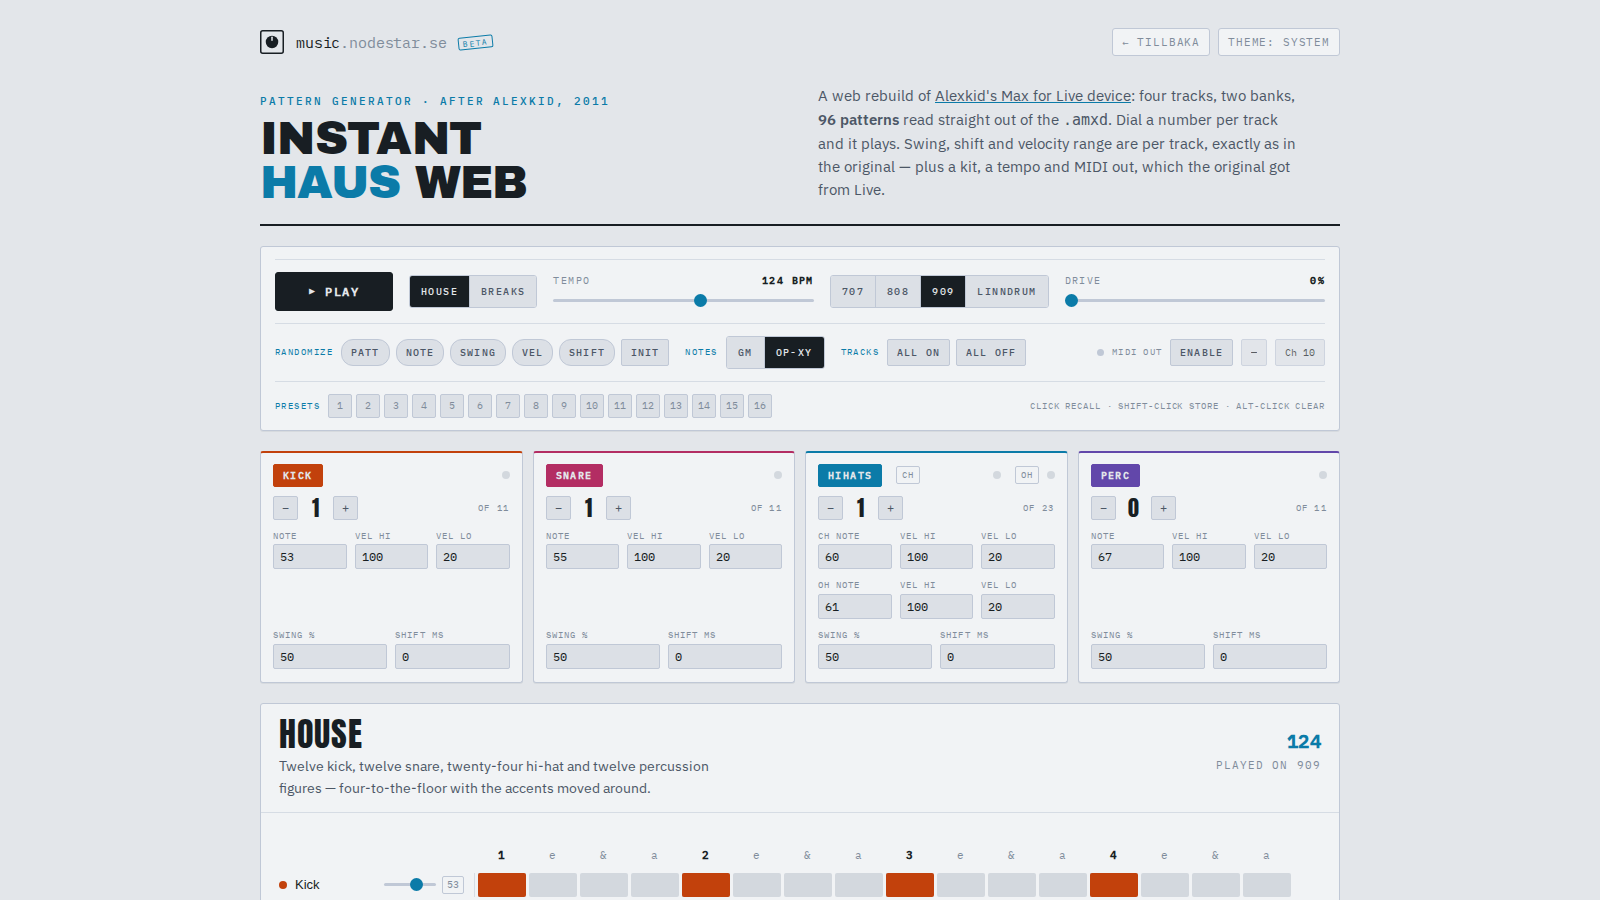
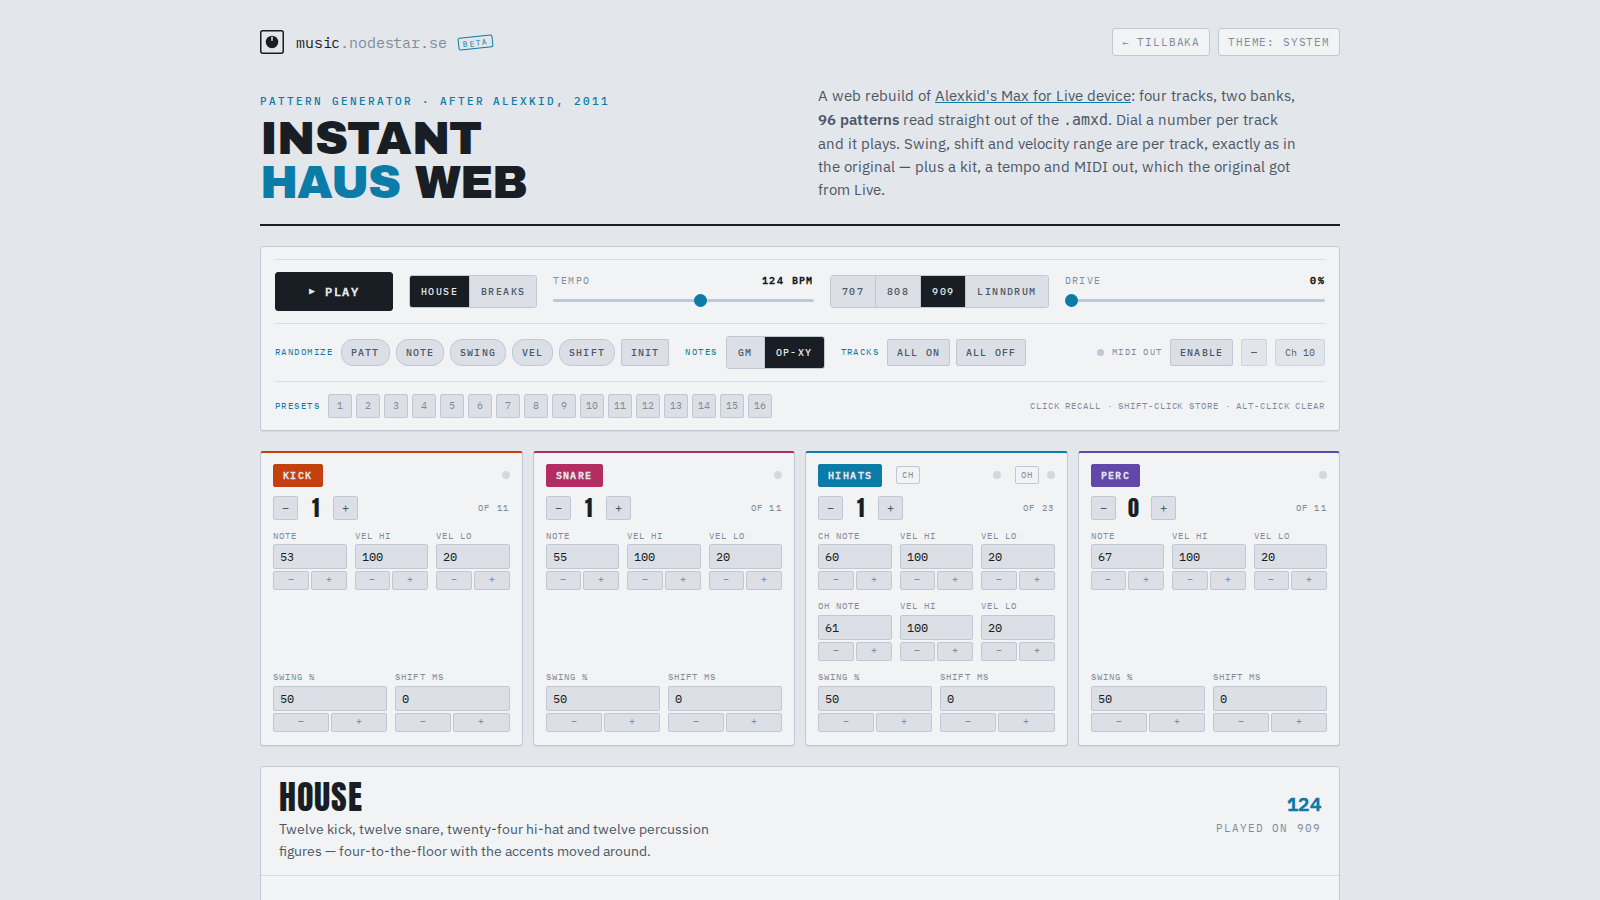
Instant Haus Web: step buttons under every numeric field
A minus/plus pair under Note, Vel Hi, Vel Lo, Swing and Shift on all four
modules. One step per click, ten with shift, and hold to repeat — without the
repeat they would be useless on exactly the fields that need them most, since
a velocity has 128 steps. Typing still works for long jumps, and the pattern
dial keeps the steppers it already had.

They sit under the field rather than beside it: at three columns the cell is
about 52 px, so flanking buttons would leave the number itself around 24.

Claude-Session: https://claude.ai/code/session_019Ww1Cx3jD6txbHoobQzUCk

Changed region(s): [[0.1562, 0.6222, 0.8438, 1.0], [0.75, 0.9022, 0.8125, 0.9333], [0.8125, 0.8711, 0.8438, 0.9022]]

diff --git a/static/demos/instant-haus-web/index.html b/static/demos/instant-haus-web/index.html
@@ -523,6 +523,18 @@ h1{font-size:clamp(28px,4.8vw,46px)}
   font-family:"IBM Plex Mono",monospace;font-size:9px;letter-spacing:.1em;text-transform:uppercase;
   color:var(--ink-3);margin-left:auto;
 }
+
+/* ---------- field steppers ---------- */
+.fldwrap{display:flex;flex-direction:column;gap:2px;min-width:0}
+.spin{display:grid;grid-template-columns:1fr 1fr;gap:2px}
+.spin button{
+  appearance:none;cursor:pointer;border:1px solid var(--line);background:var(--panel-2);
+  color:var(--ink-3);font-family:"IBM Plex Mono",monospace;font-size:10px;line-height:1;
+  padding:3px 0 4px;border-radius:2px;touch-action:none;user-select:none;
+}
+.spin button:hover{border-color:var(--acc);color:var(--ink)}
+.spin button:active{background:var(--acc);border-color:var(--acc);color:var(--on-acc)}
+.spin button:focus-visible{outline:2px solid var(--acc);outline-offset:1px}
 @media (max-width:980px){ .tracks{grid-template-columns:repeat(2,minmax(0,1fr))} }
 @media (max-width:560px){ .tracks{grid-template-columns:1fr} }
 </style>
@@ -986,7 +998,46 @@ function numField(label, min, max, val, cb, key, isNote){
   });
   w.appendChild(s); w.appendChild(i);
   els["in_"+key] = i;
-  return w;
+
+  /* Typing is fine for a jump; these are for nudging. Hold to repeat, since
+     a velocity has 128 steps and nobody should click that many times. */
+  function apply(d){
+    var cur = Math.round(+i.value); if(isNaN(cur)) cur = min;
+    var n = Math.max(min, Math.min(max, cur + d));
+    if(n === cur) return;
+    i.value = n; cb(n);
+  }
+  function stepper(txt, dir){
+    var b = document.createElement("button");
+    b.type = "button"; b.textContent = txt;
+    b.setAttribute("aria-label", (dir < 0 ? "Decrease " : "Increase ") + label);
+    b.title = label + ": " + (dir < 0 ? "\u2212" : "+") + "1, shift for 10, hold to repeat";
+    var slow = null, fast = null;
+    function stop(){ clearTimeout(slow); clearInterval(fast); slow = fast = null; }
+    b.addEventListener("pointerdown", function(e){
+      if(e.button) return;
+      e.preventDefault();
+      var step = e.shiftKey ? 10 : 1;
+      apply(dir * step);
+      slow = setTimeout(function(){
+        fast = setInterval(function(){ apply(dir * step); }, 55);
+      }, 380);
+    });
+    ["pointerup","pointerleave","pointercancel","blur"].forEach(function(ev){
+      b.addEventListener(ev, stop);
+    });
+    b.addEventListener("keydown", function(e){
+      if(e.key === "Enter" || e.key === " "){ e.preventDefault(); apply(dir * (e.shiftKey ? 10 : 1)); }
+    });
+    return b;
+  }
+  var spin = document.createElement("div"); spin.className = "spin";
+  spin.appendChild(stepper("\u2212", -1));
+  spin.appendChild(stepper("+", 1));
+
+  var wrap = document.createElement("div"); wrap.className = "fldwrap";
+  wrap.appendChild(w); wrap.appendChild(spin);
+  return wrap;
 }
 function setPatt(m, n){
   var st = state[m.id];

diff --git a/static/demos/instant-haus-web/README.md b/static/demos/instant-haus-web/README.md
@@ -42,6 +42,11 @@ originalet.
 | Swing | 50–100 % | 50 |
 | Shift | 0–25 ms | 0 |
 
+Varje fält har ett par små **− / +** under sig, utöver att gå att skriva i:
+ett steg per klick, tio med shift, och håll inne för repetition — en velocity
+har 128 steg och ingen ska behöva klicka så många gånger. Mönsterrattens
+stegknappar sitter kvar där de satt.
+
 ### Noter — GM eller OP-XY
 
 Två notkartor, växlade med **Notes: GM / OP-XY** i konsolen bredvid Init:
